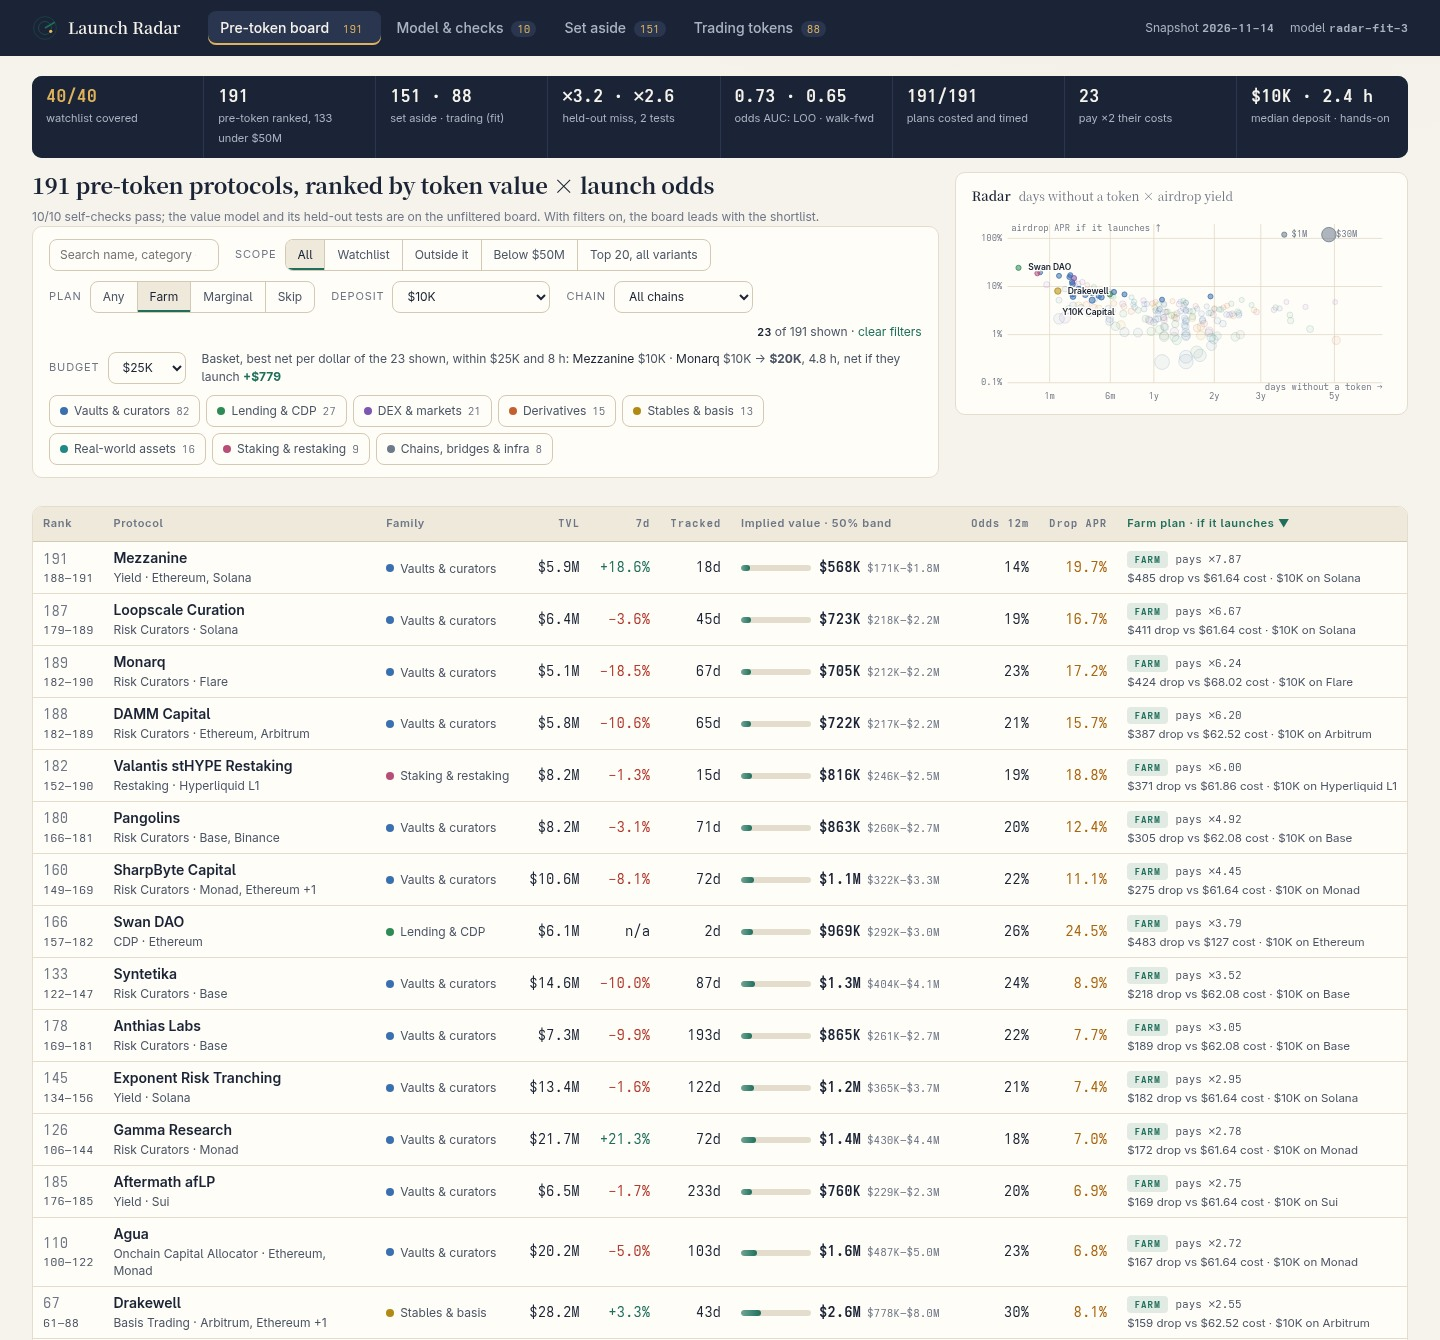
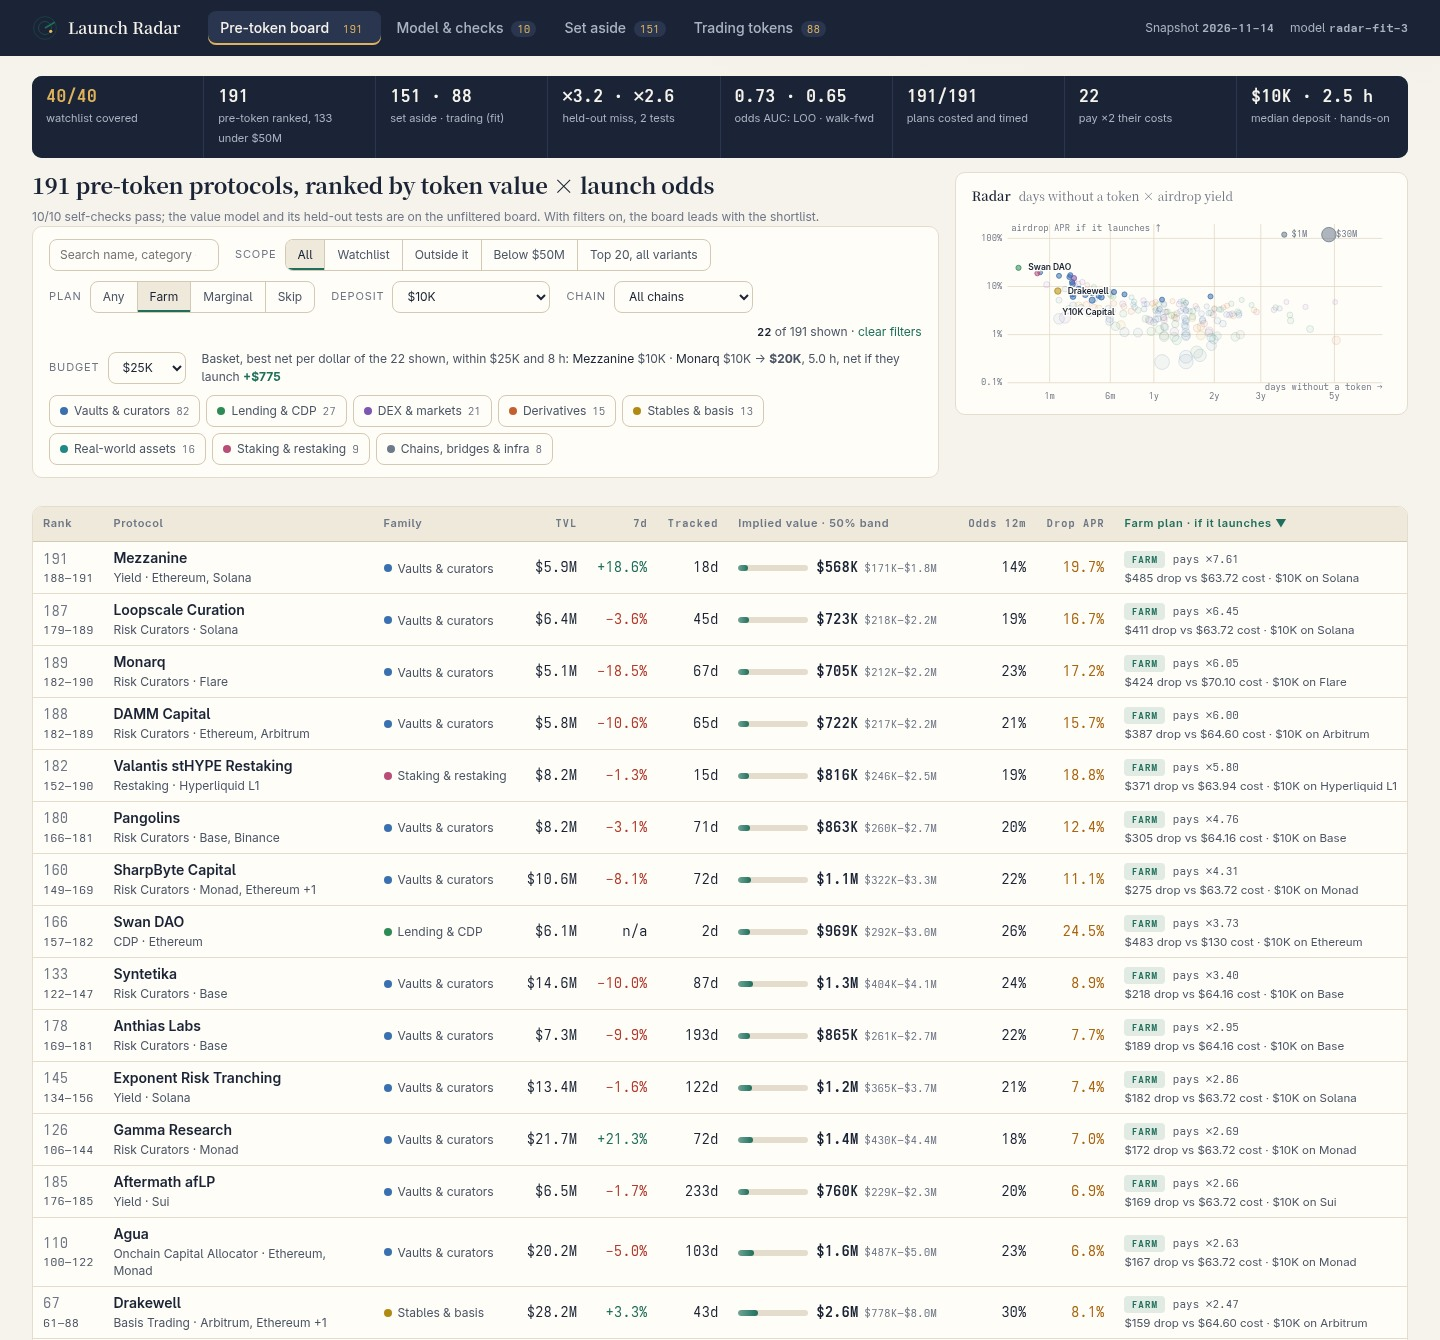
Category checklists in every kill test (asset, access, eligibility, exit terms per farm type); skip plans become a $0 research plan with the trigger that would flip them

diff --git a/dashboard/model.js b/dashboard/model.js
@@ -290,7 +290,7 @@
       var side = Math.round(stake / 4), act = ACT[kind];
       var fill = function (t) { return t.replace(/USDC/g, asset).replace(/\{S\}/g, usd(stake)).replace(/\{s\}/g, usd(side)).replace(/\{N\}/g, p.name).replace(/\{C\}/g, chain); };
       return [
-        { act: 'Kill test: go on only if ' + p.name + ' shows a live points or rewards page and a deposit-and-withdraw quote on ' + chain + ' totals under ' + usd(0.1 * eligible(stake) * perDollar) + ' (10% of the modeled drop); if either fails, stop with $0 spent', usd: 0, min: 10, when: 'Day 0' },
+        { act: 'Kill test, go on only if all hold: ' + fill(act[3]) + '; and a deposit-and-withdraw quote totals under ' + usd(0.1 * eligible(stake) * perDollar) + ' (10% of the modeled drop). If any fails, stop with $0 spent', usd: 0, min: 15, when: 'Day 0' },
         { act: 'Withdraw ' + usd(stake + side) + ' of ' + asset + ' from an exchange straight to a fresh wallet on ' + chain + (chain !== main[0] ? ' (cheaper than ' + main[0] + ', where it also runs)' : '') + '; keep only farm funds in it',
           usd: 1 + tx, min: 15, when: 'Day 0' },
         { act: fill(act[0]), usd: 2 * tx, min: v.family === 'rwa' ? 30 : 10, when: v.family === 'rwa' ? 'Days 0-2' : 'Day 0' },
@@ -316,6 +316,15 @@
     st.unshift({ when: 'Before you start', usd: 0, min: 5, act: 'Decide: launch odds are ' + Math.round(v.time_factor * 100) + '% within a year and ' + Math.round(v.q3 * 100) + '% within 3, so the odds-weighted drop is ' + usd(drop * v.q3) + ' (×' + (drop * v.q3 / t.all).toFixed(2) + ' the costs); if it launches, at ' + usd(capital) + ' the modeled drop of ' + usd(drop) + ' covers the plan\'s ' + usd(t.all) +
       ' of gas, fees and time (5 min of it this check) ×' + (drop / t.all).toFixed(2) + '; with no reward it loses ' + usd(t.all) + '; it pays ×' + M.target_cover + ' if at least ' + (needShare * 100).toFixed(1) +
       '% of the token goes to depositors (the model assumes ' + M.drop_share * 100 + '%; at 5% it pays ×' + (drop / t.all / 2).toFixed(2) + ', at 20% ×' + (drop / t.all * 2).toFixed(2) + '), so ' + (verdict === 'farm' ? 'farm it, and re-check if the team announces a smaller user allocation' : verdict === 'skip' ? 'skip it unless the team announces a larger user allocation' : 'farm it only with funds already on ' + chain) });
+    // A plan that does not cover its costs even once gets a $0 research plan instead of spending steps:
+    // what to check, the trigger that would flip it, and when to look again.
+    if (verdict === 'skip') {
+      st = [st[0],
+        { when: 'Day 0', usd: 0, min: 15, act: 'Research only, no deposit: check whether ' + ACT[kind][3].replace(/\{N\}/g, p.name).replace(/\{C\}/g, chain) },
+        { when: 'Day 0', usd: 0, min: 15, act: 'Read ' + p.name + '\'s docs and announcements for a stated user or depositor allocation; note the share, if any' },
+        { when: 'Day 0', usd: 0, min: 5, act: 'Write down the trigger that flips this plan: an announced allocation of at least ' + (needShare * 100).toFixed(0) + '% to depositors, or TVL falling below ' + usd(p.tvl_usd * 0.5) + ' with no change in odds (a smaller pool to share)' },
+        { when: 'Day 30', usd: 0, min: 10, act: 'Look again on a new snapshot; if the plan now pays ×' + M.target_cover + ', follow the full plan (' + usd(capital) + ' capital, about ' + usd(t.cost) + ' in fees, ' + mins(Math.round(t.min)) + ' hands-on)' }];
+    }
     return { chain: chain, gas: tx, stake: capital, eligible: eligible(stake), asset: asset, steps: st, cost: t.cost, minutes: t.min, time_usd: t.min / 60 * M.hour_usd, all_in: t.all,
       days: M.farm_days, drop: drop, net: drop - t.all, need_share: needShare, verdict: verdict };
   }
